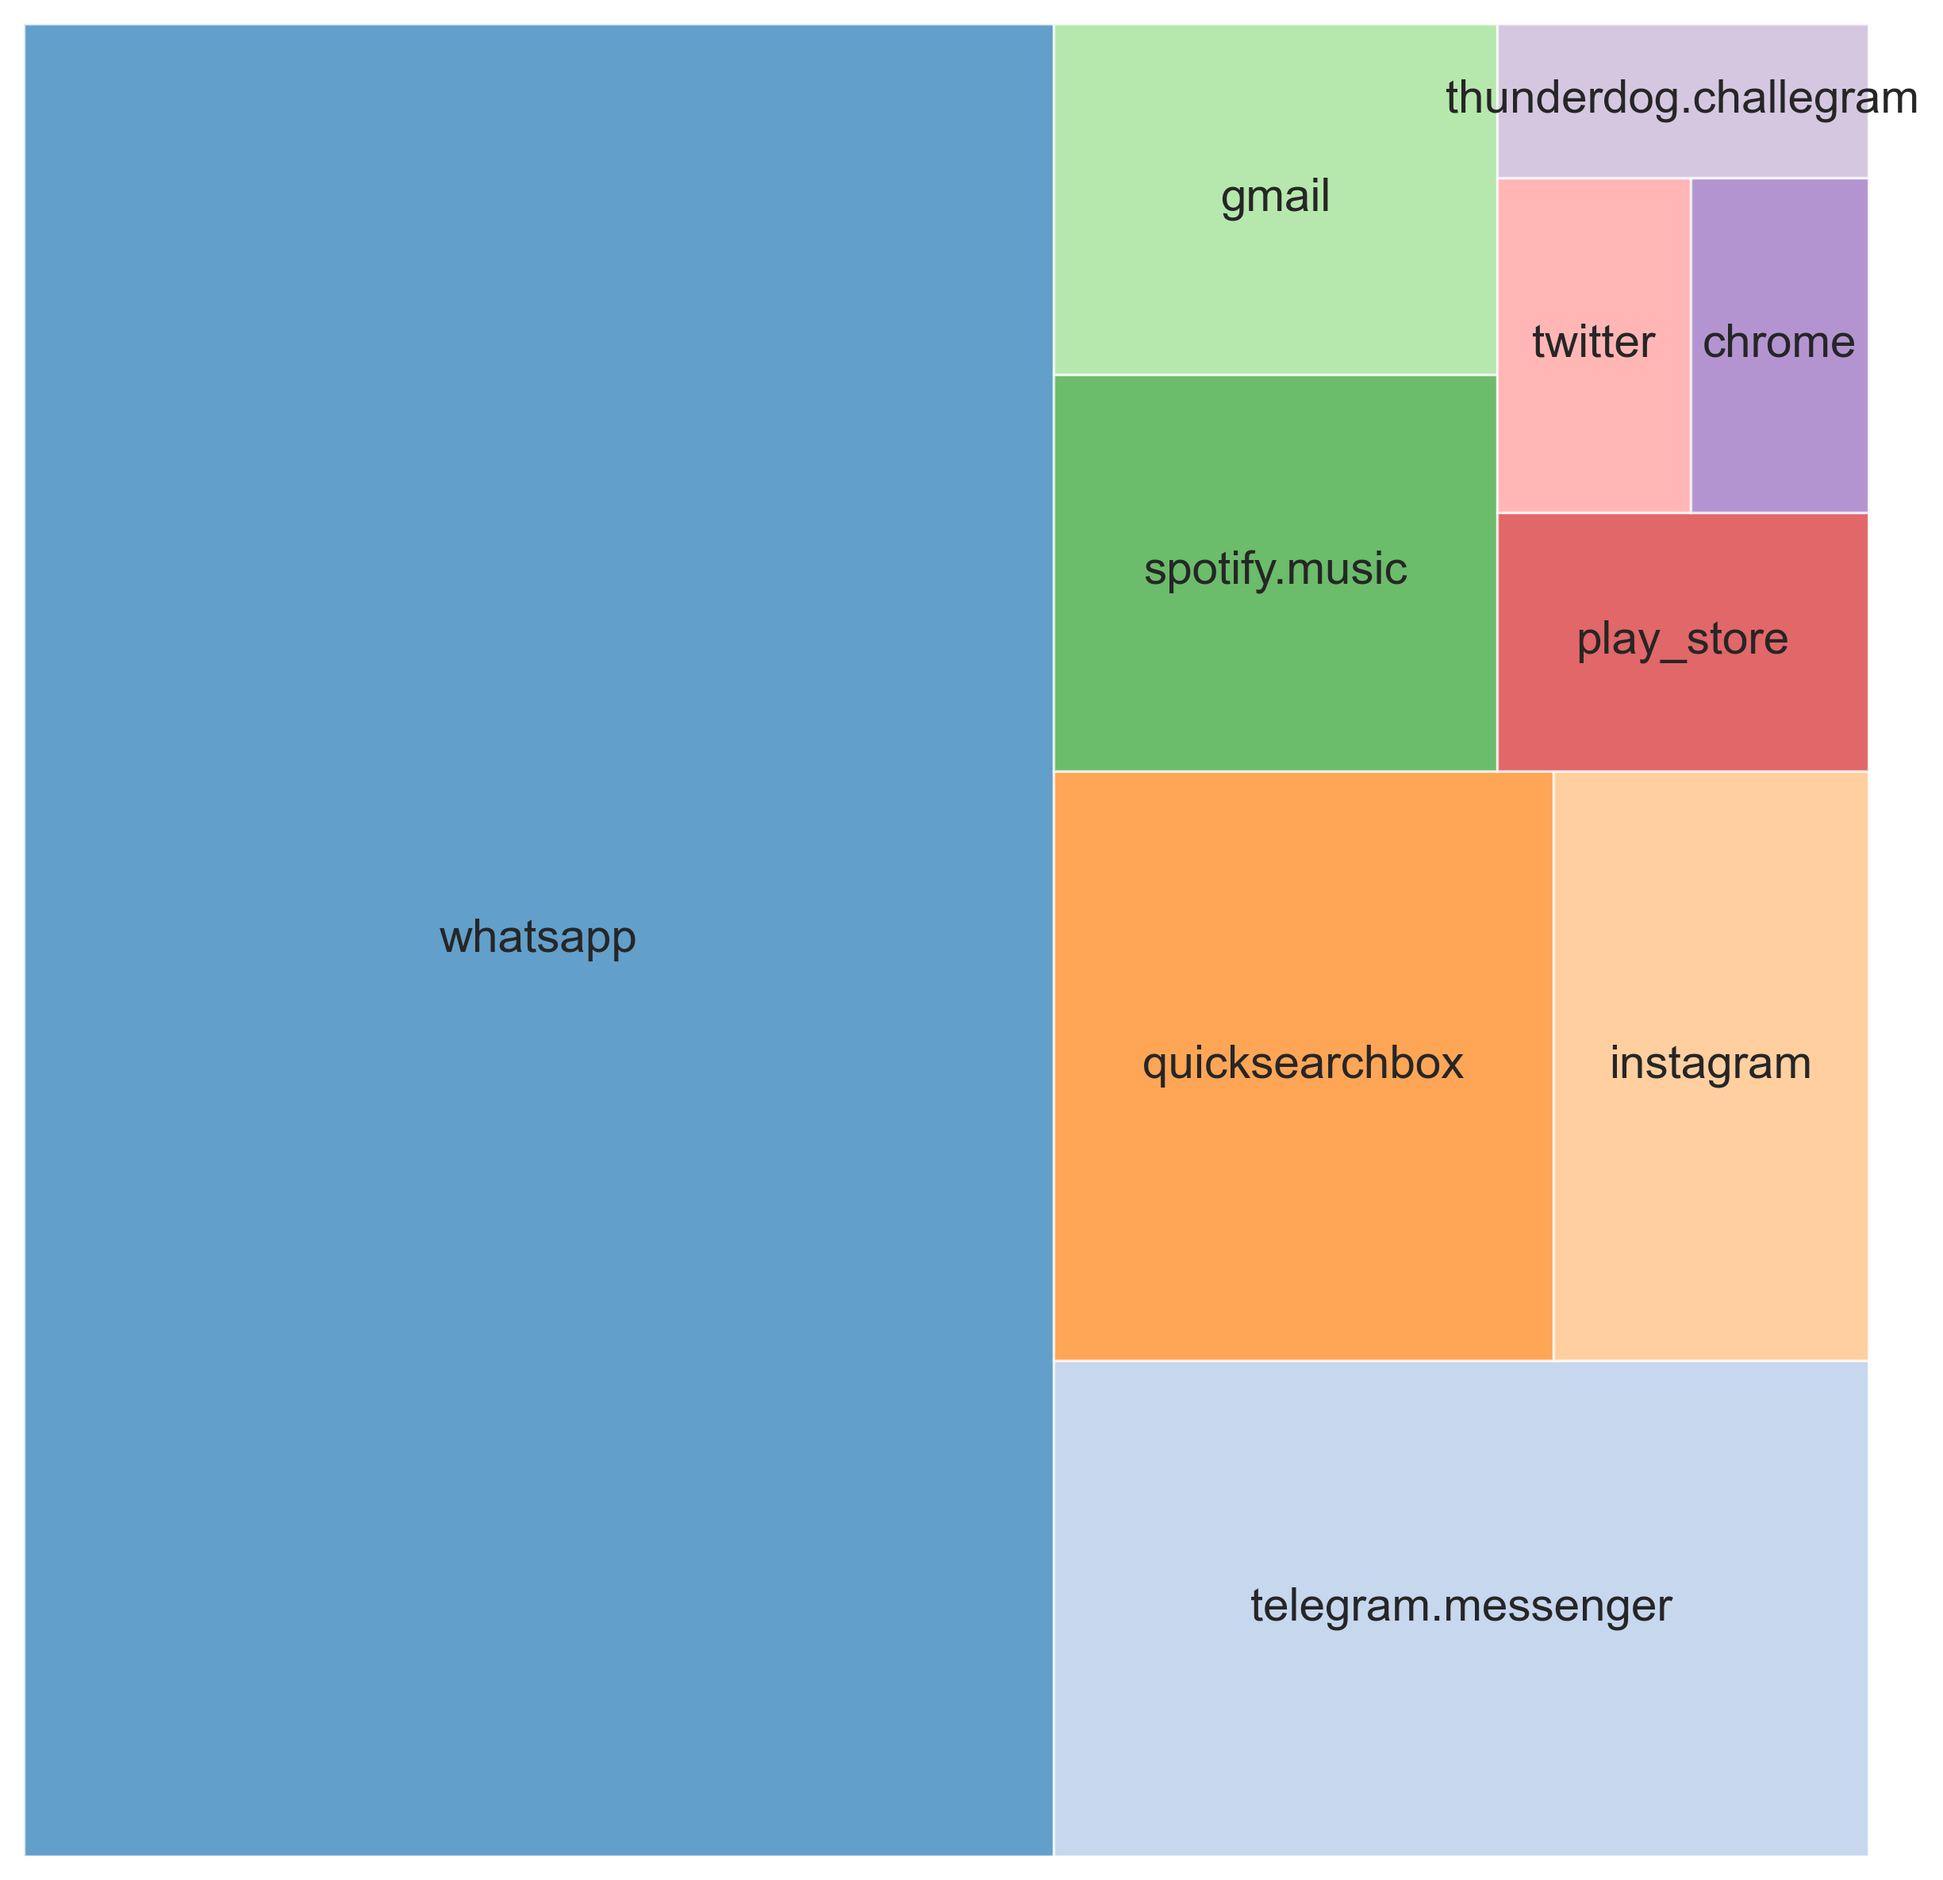
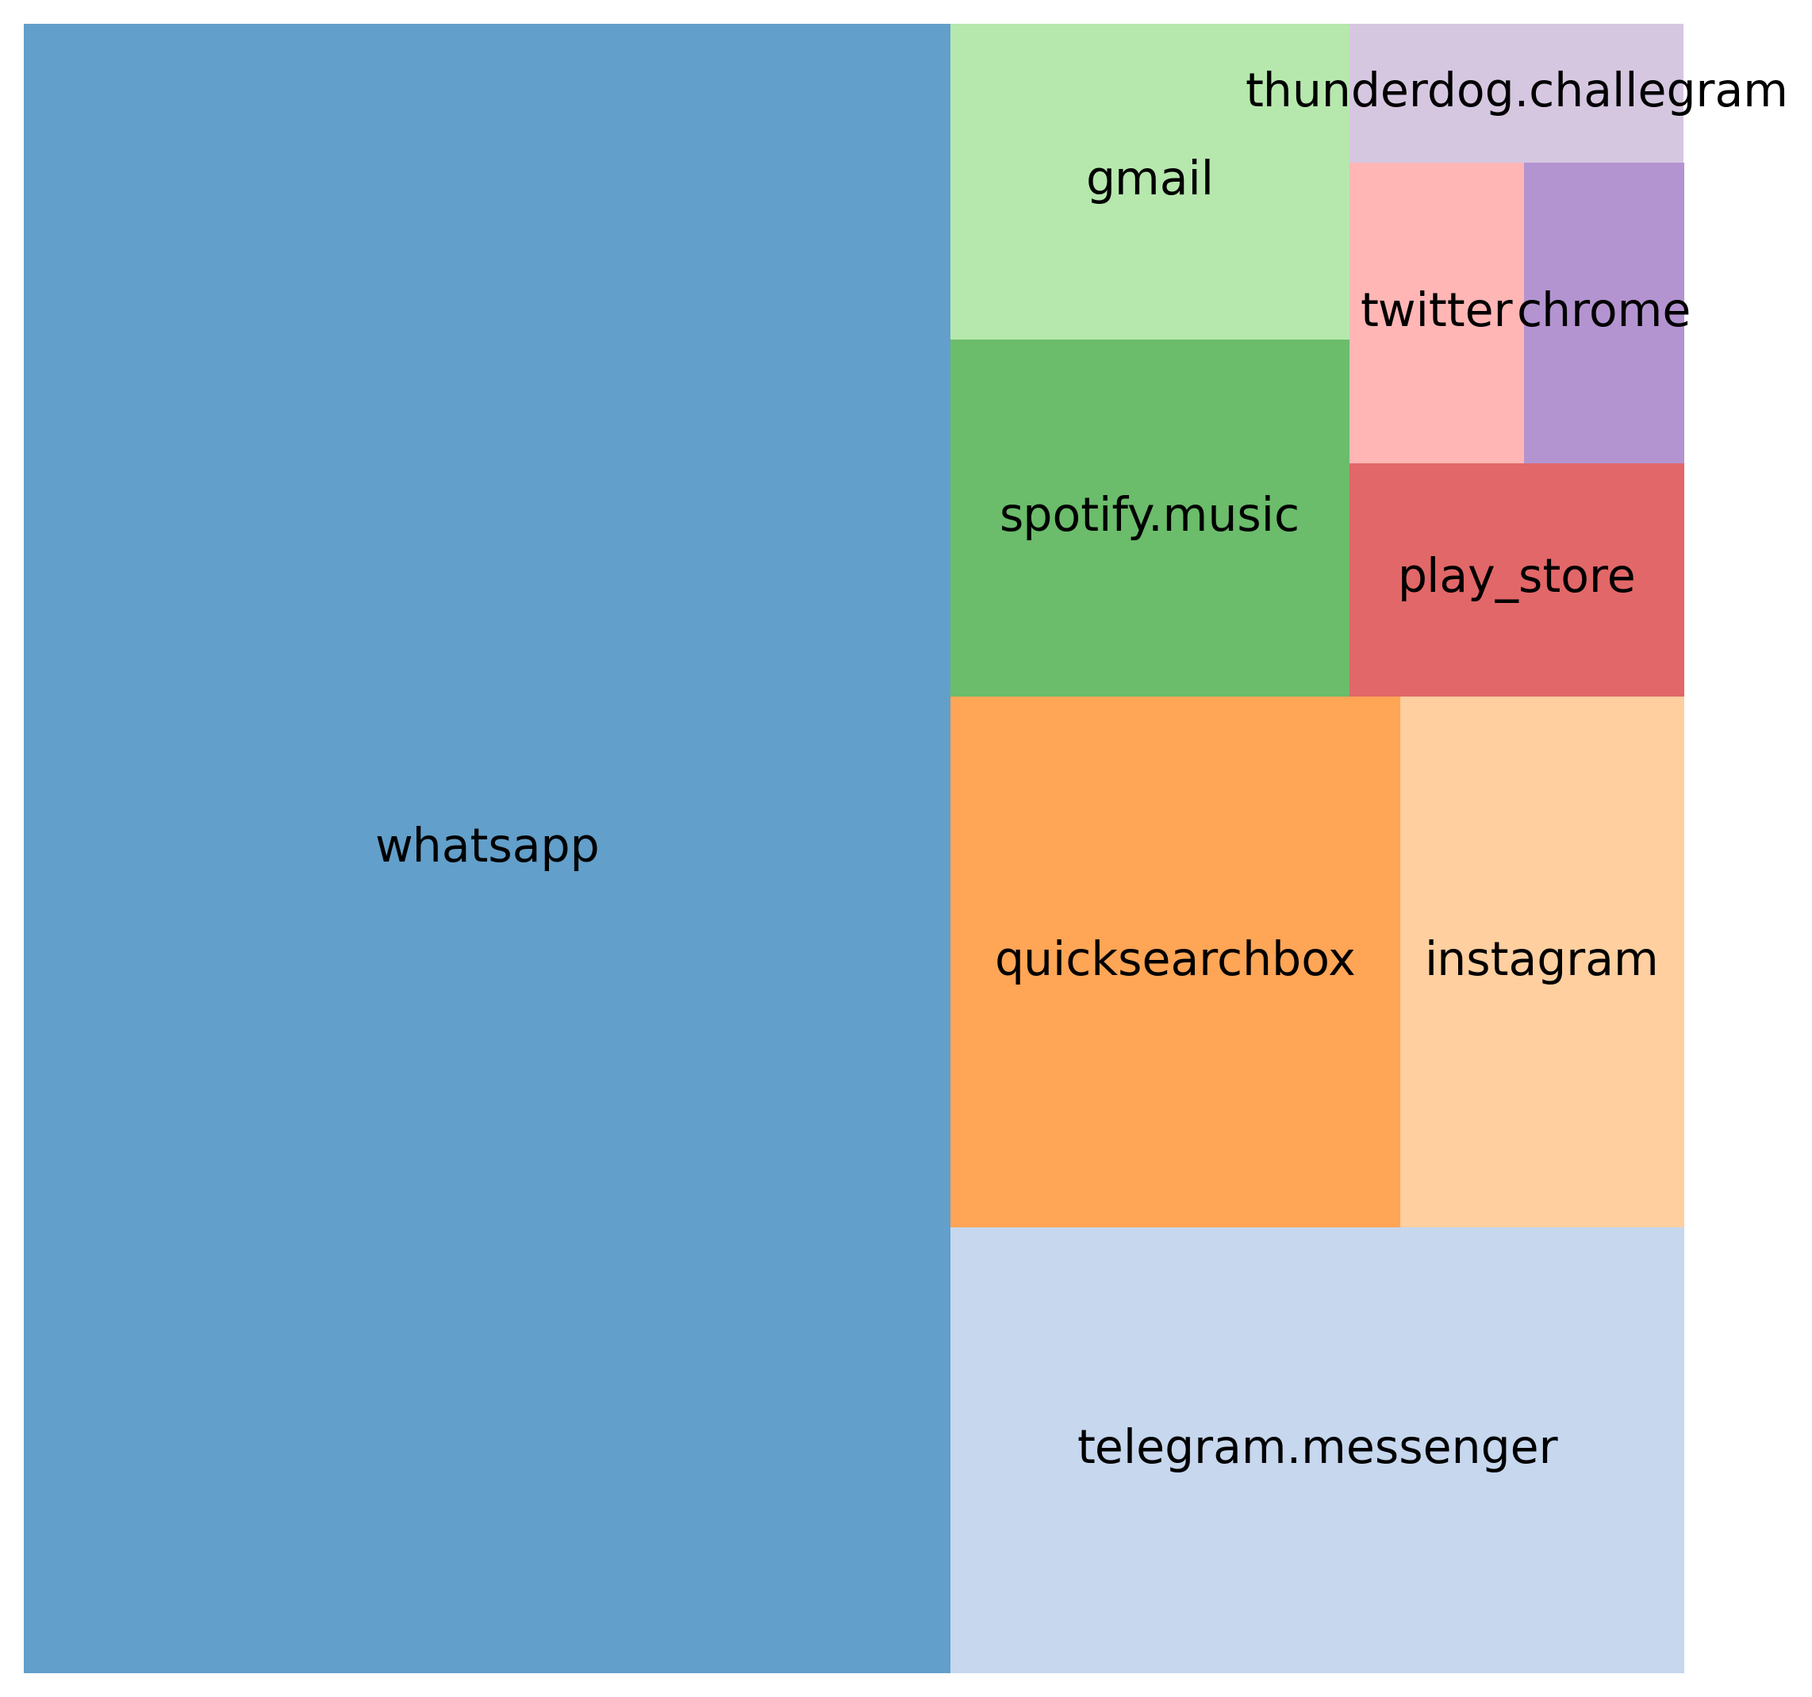
some plots

diff --git a/src/scripts/03_analysis/04_study.py b/src/scripts/03_analysis/04_study.py
@@ -6,6 +6,9 @@ import matplotlib.ticker as mtick
 import json
 import seaborn as sns
 from scipy import stats 
+from scipy.stats import pearsonr
+import numpy as np
+
 # cast tuple index to datatime
 data_folder = '/Users/alessiogandelli/dev/uni/attention-analysis/data/'
 plot_folder = '/Users/alessiogandelli/dev/uni/attention-analysis/plots/'
@@ -99,6 +102,8 @@ df_students = df.groupby(['userid', 'day']).apply(lambda x: pd.Series({'study_ti
 
 
 # from df_study compute the average lenght of streak of 0 in the touches column for each user 
+#nan to 0 in touches
+df['touches'] = df['touches'].replace(np.nan, 0)
 df_grouped = df.groupby('userid')
 students = {}
 
@@ -178,41 +183,75 @@ plt.xlabel('minutes')
 plt.ylabel('frequency')
 plt.savefig(plot_folder + 'plots/no_touches_streak_log.png')
 
+pd.Series(all_nophone).describe()
+
 # %%
-# get all phone quantities
-
-
-
-
 
 '''RESULTS'''
 
 # general stats about stufyng 
+df['touches'] = df['touches'].replace(0, np.nan)
 
 user_mean = df.groupby(['userid', 'day']).count().reset_index().groupby(['userid']).mean()
 
 (user_mean['hour']/60).describe()
 
-# histogram of study time
-plt.figure(figsize=(10, 5))
-plt.hist((user_mean['hour']/60), bins=10)
+# histogram of study time with seaborn
+import seaborn as sns
+sns.set(color_codes=True)
+sns.set(rc={'figure.figsize':(7,3)})
+sns.distplot((user_mean['hour']/60), bins=10)
 plt.title('Distribution of the number of minutes spent studying')
 plt.xlabel('hours')
 plt.ylabel('frequency')
 plt.savefig(plot_folder + 'hist_study.png')
 
-# %%
+
+
+# plt.figure(figsize=(10, 5))
+# plt.hist((user_mean['hour']/60), bins=10)
+# plt.title('Distribution of the number of minutes spent studying')
+# plt.xlabel('hours')
+# plt.ylabel('frequency')
+# plt.savefig(plot_folder + 'hist_study.png')
+
+# %% minutes between notificaitons
 user_mean['min/not'] = user_mean['hour'] / user_mean['notification']
 # remove inf 
 user_mean = user_mean.replace([np.inf, -np.inf], np.nan)
 user_mean = user_mean.dropna()
+
+'''notification'''
 # histogram of time between notifications
-plt.figure(figsize=(10, 5))
-plt.hist(user_mean['min/not'], bins=100)
+
+notification = user_mean['min/not']
+
+sns.set(color_codes=True)
+sns.set(rc={'figure.figsize':(7,3)})
+sns.distplot(notification, bins=100)
 plt.title('Distribution of the number of minutes between notifications')
 plt.xlabel('minutes')
 plt.ylabel('frequency')
+
+plt.xlim(0, 40)
+
+# add mean ad median 
+plt.axvline(notification.mean(), color='r', linestyle='dashed', linewidth=1)
+plt.axvline(notification.median(), color='r', linestyle='dashed', linewidth=1)
+# write mean and median
+plt.text(notification.mean() + 1, 0.08, 'Mean: {:.2f}'.format(notification.mean()))
+plt.text(notification.median() + 1, 0.08, 'Median: {:.2f}'.format(notification.median()))
+
 plt.savefig(plot_folder + 'hist_notific.png')
+
+
+
+# plt.figure(figsize=(10, 5))
+# plt.hist(user_mean['min/not'], bins=100)
+# plt.title('Distribution of the number of minutes between notifications')
+# plt.xlabel('minutes')
+# plt.ylabel('frequency')
+# plt.savefig(plot_folder + 'hist_notific.png')
 
 
 user_mean['min/not'].describe()
@@ -231,14 +270,66 @@ threshold = user_mean['min/not'].quantile(0.9)
 notification_90 = user_mean[user_mean['min/not'] < threshold]['min/not']
 
 # histogram of time between notifications
+
+sns.set(color_codes=True)
+sns.set(rc={'figure.figsize':(5,3)})
+sns.distplot(notification_90, bins=50)
+plt.title('number of minutes between notifications (90th perc)', fontsize=20)
+plt.xlabel('minutes')
+plt.ylabel('frequency')
+
+plt.xlim(0, 20)
+# font size 
+plt.rcParams.update({'font.size': 18})
+
+#increase title size
+
+
+# add mean ad median and mode
+plt.axvline(notification_90.mean(), color='r', linestyle='dashed', linewidth=1)
+plt.axvline(notification_90.median(), color='r', linestyle='dashed', linewidth=1)
+# write mean and median
+plt.text(notification_90.mean() + 1, 0.15, 'Mean: {:.2f}'.format(notification_90.mean()))
+plt.text(notification_90.median() + 1, 0.1, 'Median: {:.2f}'.format(notification_90.median()))
+
+# square behind 
+# plt.axvspan(0, notification_90.median(), alpha=0.2, color='red')
+# plt.axvspan(notification_90.median(), 50, alpha=0.2, color='green')
+
+#xtick 
+plt.xticks(np.arange(0, 40, 5.0))
+
+plt.savefig(plot_folder + 'hist_notific_90.png')
+
+# i want the last two plots in the same figure
+
+
+
+# correlation between touches and notification
+#%%
+rho = user_mean[['touches', 'notification']].corr()
+pval = user_mean[['touches', 'notification']].corr(method=lambda x, y: pearsonr(x, y)[1]) - np.eye(*rho.shape)
+p = pval.applymap(lambda x: ''.join(['*' for t in [.05, .01, .001] if x<=t]))
+rho.round(3).astype(str) + p
+
+# %%
+#minutes between touches 
+
+
+user_mean['min/touch'] = user_mean['hour'] / user_mean['touches']
+# remove inf 5 inf values
+user_mean_notna = user_mean.replace([np.inf, -np.inf], np.nan)
+user_mean_notna = user_mean_notna.dropna()
+# histogram of time between notifications
 plt.figure(figsize=(10, 5))
-plt.hist(notification_90, bins=50)
+plt.hist(user_mean_notna['min/touch'], bins=100)
 plt.title('Distribution of the number of minutes between notifications')
 plt.xlabel('minutes')
 plt.ylabel('frequency')
-plt.savefig(plot_folder + 'hist_notific_90.png')
+plt.savefig(plot_folder + 'hist_notific.png')
 
-
+# this plot but with seaborn distribution instead of hist
 
 
 # %%
+

diff --git a/src/scripts/03_analysis/03_analysis.py b/src/scripts/03_analysis/03_analysis.py
@@ -10,17 +10,15 @@ from scipy import stats
 data_folder = '/Users/alessiogandelli/dev/uni/attention-analysis/data/'
 plot_folder = '/Users/alessiogandelli/dev/uni/attention-analysis/plots/'
 #%%
+# cast tuple index to datatime
+data_folder = '/Users/alessiogandelli/dev/uni/attention-analysis/data/'
+plot_folder = '/Users/alessiogandelli/dev/uni/attention-analysis/plots/'
+#%%
 
 ''' LOAD DATA '''
+#df.to_pickle(data_folder + 'study_analysis.pkl')
 
-types = {'what': 'category', 'apps': 'category', 'age' : 'int64', 'gender' : 'category', 'nationality' : 'category' , 'department': 'category', 'degree' : 'category', 'notification': 'category', 'what' : 'category', 'apps' : 'category', }
-df = pd.read_csv(data_folder + 'merged_data.csv', dtype= types, parse_dates=['day'])
-
-# reorder columns
-df = df[['userid', 'day', 'hour', 'min', 'what', 'touches', 'apps', 'notification', 'age',
-       'gender', 'department', 'degree', 'Extraversion', 'Agreeableness',
-       'Conscientiousness', 'Neuroticism', 'Openness']]
-
+df = pd.read_pickle(data_folder + 'study_analysis.pkl')
 
 
 
@@ -30,7 +28,7 @@ df = df[['userid', 'day', 'hour', 'min', 'what', 'touches', 'apps', 'notificatio
 # most used apps 
 top_apps  = df['apps'].value_counts()
 
-top_apps.head(10).plot(kind = 'barh', figsize = (10, 5), title = 'Most used apps', colormap = 'tab20')
+top_apps.head(10).plot(kind = 'barh', figsize = (5, 3), title = 'Most used apps', colormap = 'tab20')
 plt.gca().xaxis.set_major_formatter(mtick.PercentFormatter(sum(top_apps)))
 plt.xlabel('share of usage (%)')
 
@@ -41,7 +39,7 @@ plt.savefig(plot_folder + 'top_apps.png', dpi=300, bbox_inches='tight')
 # how many users have installed each app
 n_users = df['userid'].nunique()
 user_installed_apps = df.groupby('apps')['userid'].nunique().sort_values(ascending=False).head(10)
-user_installed_apps.plot(kind = 'bar', figsize = (8, 5), title = 'Most installed apps', colormap = 'tab20')
+user_installed_apps.plot(kind = 'bar', figsize = (5, 5), title = 'Most installed apps', colormap = 'tab20')
 plt.gca().yaxis.set_major_formatter(mtick.PercentFormatter(n_users))
 # rotate x labels
 plt.xticks(rotation=30)
@@ -80,7 +78,7 @@ top_notif = top_notif[~top_notif.index.str.contains('cc.pacer')]
 
 
 
-plt.figure(figsize=(10, 10))
+plt.figure(figsize=(9, 9))
 squarify.plot(sizes=top_notif.head(10), label=top_notif.head(10).index, alpha=.7, color = sns.color_palette("tab20", 10), text_kwargs={'fontsize':14})
 plt.axis('off')
 
@@ -126,7 +124,7 @@ df_what = df_what[[ 'Missing', 'Sleeping','Entertainment', 'Work/Class',  'Study
 
 #using hours as x axis and all the activities as y axis
 
-ax = df_what.plot(kind='area', stacked=True, figsize=(15, 8), colormap = 'tab20', title = 'What people do at different hours of the day')
+ax = df_what.plot(kind='area', stacked=True, figsize=(10, 6), colormap = 'tab20', title = 'What people do at different hours of the day')
 
 plt.gca().yaxis.set_major_formatter(mtick.PercentFormatter(1))
 #x ticks frequency 5 to 24 and 24 to 4 
